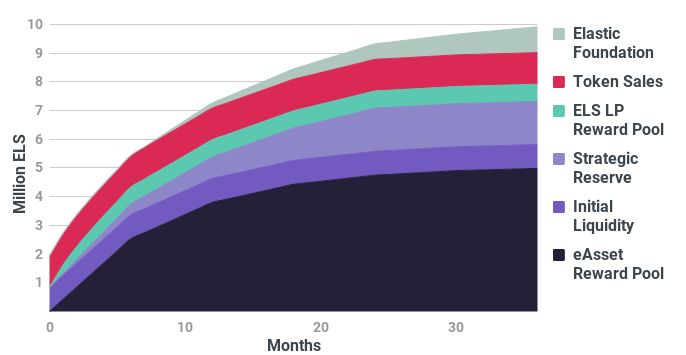
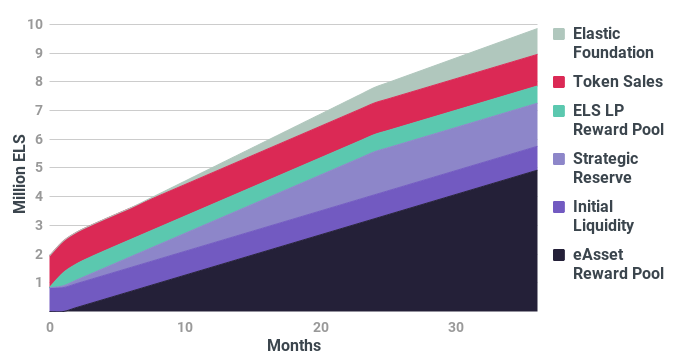
add distribution pool schedules

Changed region(s): [[0.0612, 0.062, 0.7959, 0.8986]]

diff --git a/protocol/elastic-token/tokenomics.md b/protocol/elastic-token/tokenomics.md
@@ -15,19 +15,19 @@ At genesis a total of 2,533,000 ELS (25.33%) will move into circulation with the
 
 At genesis a total of 2,533,000 ELS (100% of the circulating supply) will become available to the public and will be distributed as follows:
 
-#### Pre Sale 
+**Pre Sale**   
 *3.95% - 0.1 million ELS*  
 Tokens will be available for the public to purchase through Elastic’s pre-sale event on [PolkaStarter](https://polkastarter.com/). Funds are assigned for marketing and launch costs. 
 
-#### Public Sale 
+**Public Sale**   
 *39.48% - 1 million ELS*  
 Tokens will be available for the public to purchase through Elastic’s IDO (Initial DEX Offering) on PolkaStarter. 100% of funds raised are used to fund initial liquidity for the Uniswap ELS/ETH pair.
 
-#### Liquidity
+**Liquidity**  
 *32.89% - 0.833 million ELS*  
 Tokens will be reserved for initial liquidity for the Uniswap ELS/ETH pair.
 
-#### LP Reward Pool
+**LP Reward Pool**  
 *23.69% ~ 0.6 million ELS over 3 months*  
 Tokens will be reserved for ELS LP Pool 1 which incentivizes further liquidity in the Uniswap ELS/ETH pool. ELS LP Pool 1 uses a halving schedule, with tokens paid monthly. After 3 months, 87.5% of the pool will be distributed.
 
@@ -43,24 +43,24 @@ The distribution structure at the end of 3 years will look like the below:
 [View vault](https://team.finance)  
 Tokens will be released to current and future team members. Tokens are locked for 6 months and released monthly over a 30 month period.
 
-#### Token Sales
+**Token Sales**  
 *11.00% - 1.1 million ELS*  
 The tokens originally released to the public via private and public sales will now account for 11.00% of the total token supply.
 
-#### LP Reward Pool
+**LP Reward Pool**  
 *6.00% - 0.6 million ELS*  
 Tokens distributed to ELS liquidity providers in ELS LP Pool 1 will now account for 6.00% of the total token supply.
 
-#### Strategic Reserve 
+**Strategic Reserve**  
 *15.00% - 1.5 million over 36 months*  
 [View vault](https://team.finance)  
 Tokens will be released for growing the protocol eg: development, marketing, CEX listings, audits, market stabilization. Tokens are locked for 1 month and released monthly over a 36 month period.
 
-#### Initial Liquidity
+**Initial Liquidity**  
 *8.33% - 0.833 million ELS*  
 Tokens originally provided for initial uniswap liquidity will now account for 8.33% of the total token supply.
 
-#### eAsset Reward Pool
+**eAsset Reward Pool**  
 *50.67% ~ 5.067 million ELS over 36 months*  
 [View vault](https://team.finance)  
 Tokens will be released to the public for incentivizing participation and liquidity in eAsset markets. Tokens are locked for 1 month and released monthly over a 36 month period following a 6 month halving schedule.
@@ -71,19 +71,17 @@ Tokens will be released to the public for incentivizing participation and liquid
 
 ## Reward Pools
 
-### LP Reward Pool(s)
-
-#### ELS LP Pool 1
+### ELS LP Pool 1
 
 #### ELS LP Pool 1 Distribution Schedule
 
+![ELS LP Pool 1 Distribution Schedule](../../images/els_pool1_schedule.png)
+
 ### eAsset Reward Pools
 
-#### eAsset Pools
+#### eAsset Pools Halving Schedule
 
-#### eAsset LP Pools
-
-#### eAsset Reward Pools Cumulative Distribution Schedule
+![ELS eAsset Pools Halving Schedule](../../images/els_eAsset_pool_schedule.png)
 
 
 

diff --git a/protocol/elastic-assets/tokenomics.md b/protocol/elastic-assets/tokenomics.md
@@ -1,1 +1,39 @@
+# Elastic Asset Distribution
+
 # Tokenomics
+
+{% hint style="info" %}
+Please note the information contained here is subject to change until the launch of the ELS presale.
+{% endhint %}
+
+
+### Final Distribution
+
+The distribution structure at the end of 12 months will look like the below:
+
+![eAsset Final Distribution Pie Chart](../../images/eAsset_final_distribution_pie.png)
+
+
+### Cumulative Distribution Schedule  
+
+![ELS Final Distribution Pie Chart](../../images/eAsset_distribution_schedule_area.png)
+
+## Reward Pools
+
+### ELS Pool
+
+#### ELS Pool Halving Schedule
+
+![ELS Pool Halving Schedule](../../images/eAsset_els_pool_schedule.png)
+
+### ELS LP Pool
+
+#### ELS LP Pool Halving Schedule
+
+![ELS LP Pool Halving Schedule](../../images/eAsset_elsLp_pool_schedule.png)
+
+### eAsset LP Pool
+
+#### eAsset LP Pool Halving Schedule
+
+![eAsset LP Pool Halving Schedule](../../images/eAsset_eAssetLp_pool_schedule.png)

diff --git a/protocol/elastic-token/community-launch.md b/protocol/elastic-token/community-launch.md
@@ -1,1 +1,7 @@
 # Community launch and token distribution
+
+{% hint style="info" %}
+Please note the information contained here is subject to change until the launch of the ELS presale.
+{% endhint %}
+
+![ELS Community Launch Diagram](../../images/els_communityLaunch_diagram.png)

diff --git a/protocol/elastic-token/lifecycle.md b/protocol/elastic-token/lifecycle.md
@@ -1,1 +1,7 @@
 # Lifecycle
+
+{% hint style="info" %}
+Please note the information contained here is subject to change until the launch of the ELS presale.
+{% endhint %}
+
+![ELS Lifecycle Diagram](../../images/els_lifecycle_diagram.png)
